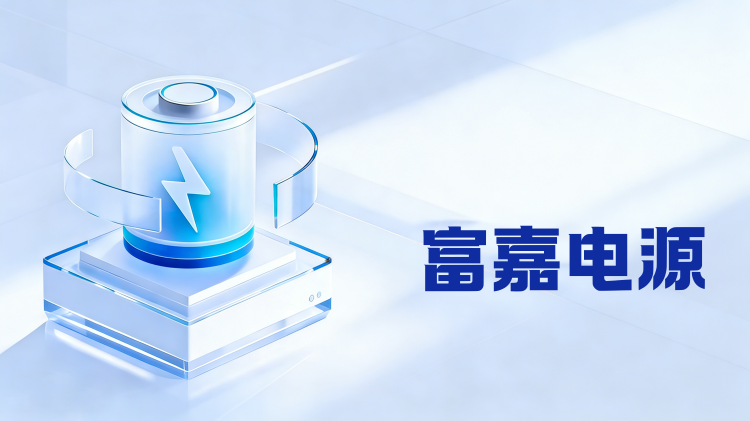
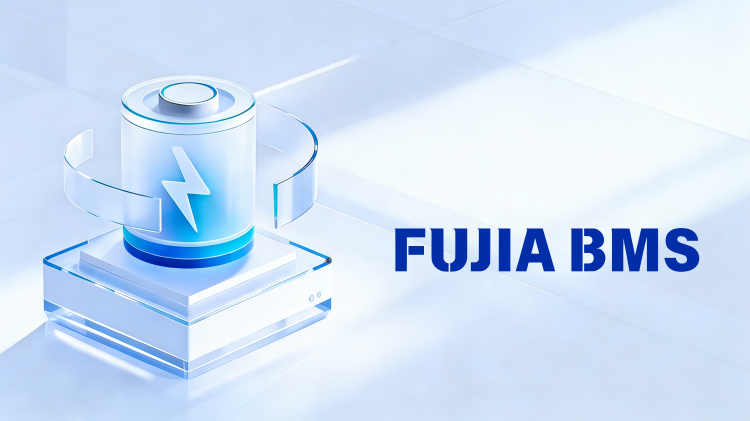
fix: use miniapp home image override

Changed region(s): [[0.5213, 0.5249, 0.9507, 0.7102]]

diff --git a/common/assets/images.ts b/common/assets/images.ts
@@ -24,6 +24,11 @@ export const LARGE_IMAGE_PATH_MAP = {
 	'my/my-top-2@2x.png': '/static/image/my/my-top-2@2x.png'
 } as const
 
+// 微信小程序下首页顶部图使用专用素材，避免不同端的裁切/适配差异。
+const MP_WEIXIN_IMAGE_OVERRIDE_MAP = {
+	'home/home-top@2x.png': 'home/home-top-miniapp@2x.png'
+} as const
+
 export type LargeImageKey = keyof typeof LARGE_IMAGE_PATH_MAP
 
 const trimSlashesRight = (s: string) => s.replace(/\/+$/, '')
@@ -64,6 +69,10 @@ export const imageUrl = (keyOrPath: LargeImageKey | string): string => {
 	const largeKey = (k in LARGE_IMAGE_PATH_MAP ? (k as LargeImageKey) : toLargeKeyFromLocalPath(localPath))
 
 	// #ifdef MP-WEIXIN
+	if (k in MP_WEIXIN_IMAGE_OVERRIDE_MAP) {
+		const cdnPrefix = getImageCdnPrefix()
+		return joinUrl(cdnPrefix, `/static/image/${MP_WEIXIN_IMAGE_OVERRIDE_MAP[k as keyof typeof MP_WEIXIN_IMAGE_OVERRIDE_MAP]}`)
+	}
 	if (largeKey) {
 		const cdnPrefix = getImageCdnPrefix()
 		return joinUrl(cdnPrefix, LARGE_IMAGE_PATH_MAP[largeKey])
